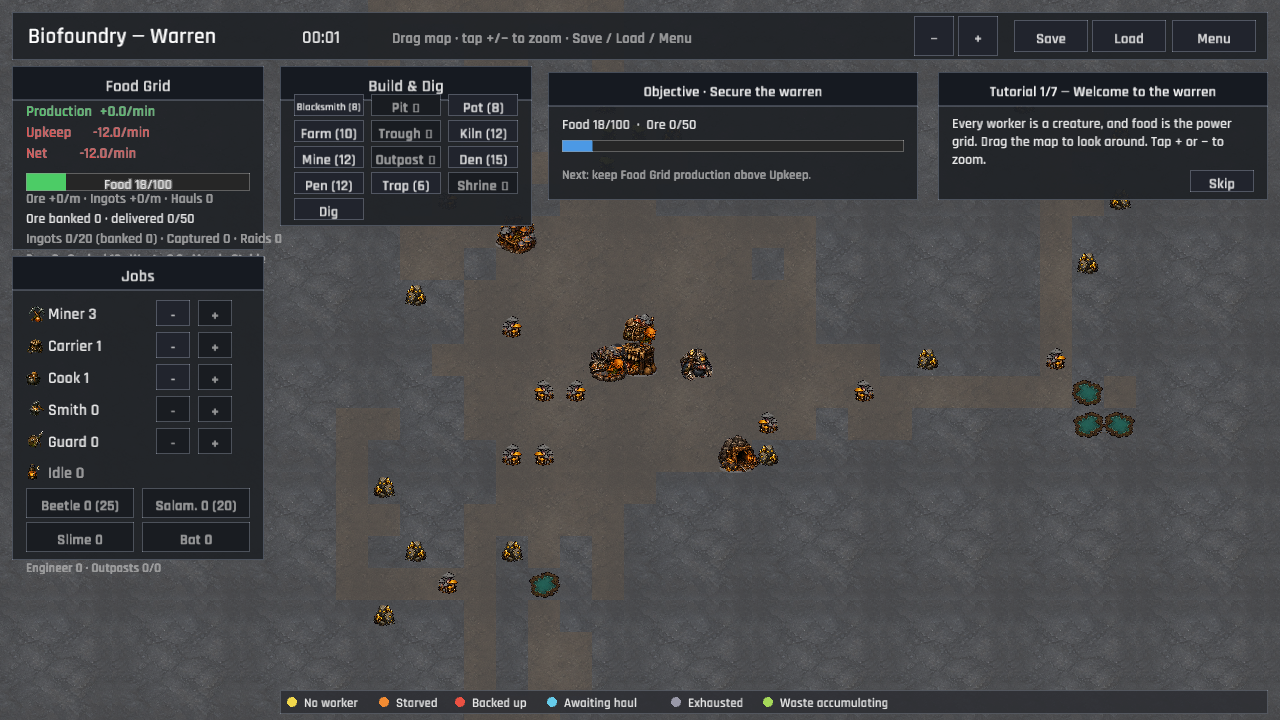
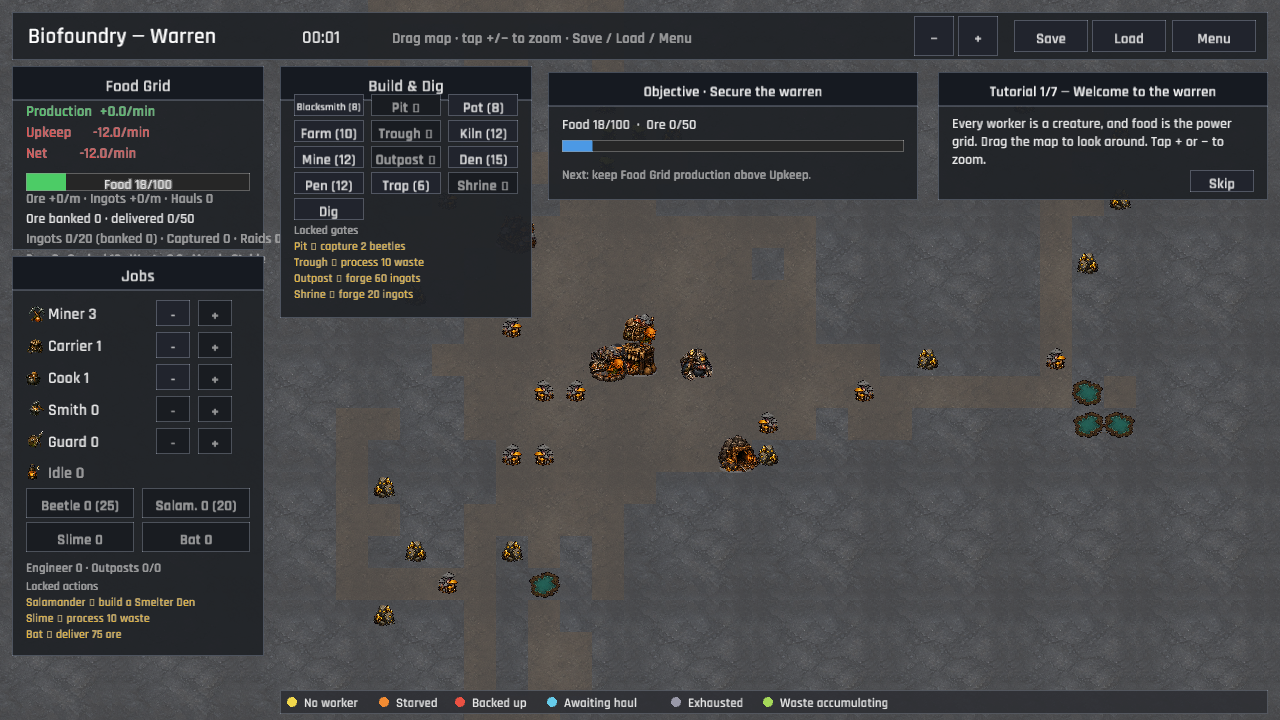
The warren names every locked gate before the path disappears (P2 unlock prerequisite disclosure)
The build and recruitment panels showed padlocks without telling a player what progress would open them, leaving optional systems to look broken or arbitrary. Locked gates now expose exact, data-derived actions: capture beetles, process waste, deliver ore, forge ingots, or build the Smelter Den.

The same prerequisite formatter serves building locks and specialist actions, so the copy follows the thresholds in unlocks.json instead of duplicating balance values. The panels gain enough room to keep those explanations visible at 1280x720, and the canonical Warren capture records the result.

Verified with cargo fmt -- --check, cargo test --all-targets (69 unit tests plus integration checks), cargo clippy --all-targets --all-features -- -D warnings, and publish.ps1 with no parameters.

Changed region(s): [[0.2188, 0.3056, 0.4375, 0.4583], [0.0, 0.7639, 0.2188, 0.9167]]

diff --git a/src/ui/hud/panels.rs b/src/ui/hud/panels.rs
@@ -5,6 +5,7 @@ use crate::data::GameData;
 use crate::simulation::{self, food};
 use crate::state::creatures::Job;
 use crate::state::GameSession;
+use crate::ui::hud::requirements::unlock_requirement;
 use crate::ui::hud::widgets::{hud_button, panel_style};
 use crate::ui::hud::HudSprites;
 use crate::ui::{UiAction, UiMode, LOGICAL_WIDTH};
@@ -380,6 +381,34 @@ pub(super) fn draw_jobs_panel(
         y + 18.0,
         TextStyle::new(13.0, dark::TEXT_DIM).params(),
     );
+
+    let mut locked_actions = Vec::new();
+    if !has_den {
+        locked_actions.push("Salamander → build a Smelter Den".to_owned());
+    }
+    for (label, unlock_id) in [("Slime", "slime_janitor"), ("Bat", "bat_courier")] {
+        if !session.unlocked.contains(unlock_id) {
+            if let Some(requirement) = unlock_requirement(data, unlock_id) {
+                locked_actions.push(format!("{label} → {requirement}"));
+            }
+        }
+    }
+    if !locked_actions.is_empty() {
+        draw_ui_text_ex(
+            "Locked actions",
+            x,
+            y + 36.0,
+            TextStyle::new(12.0, dark::TEXT_DIM).params(),
+        );
+        for (index, requirement) in locked_actions.iter().enumerate() {
+            draw_ui_text_ex(
+                requirement,
+                x,
+                y + 52.0 + index as f32 * 16.0,
+                TextStyle::new(12.0, dark::WARNING).params(),
+            );
+        }
+    }
 }
 
 pub(super) fn draw_tools_panel(
@@ -406,6 +435,7 @@ pub(super) fn draw_tools_panel(
     // kinds stay visible but disabled (progression is discoverable).
     let mut defs: Vec<_> = data.buildings.iter().filter(|(_, d)| d.buildable).collect();
     defs.sort_by(|a, b| a.0.cmp(b.0));
+    let mut locked_requirements = Vec::new();
     for row in defs.chunks(3) {
         for (i, (id, def)) in row.iter().enumerate() {
             let active = *mode == UiMode::Build((*id).clone());
@@ -420,6 +450,13 @@ pub(super) fn draw_tools_panel(
             } else {
                 format!("{short} 🔒")
             };
+            if !unlocked {
+                if let Some(unlock_id) = def.requires_unlock.as_deref() {
+                    if let Some(requirement) = unlock_requirement(data, unlock_id) {
+                        locked_requirements.push(format!("{short} → {requirement}"));
+                    }
+                }
+            }
             let bx = x + (cell + 8.0) * i as f32;
             if hud_button(Rect::new(bx, y, cell, 22.0), &label, unlocked, mouse) {
                 actions.push(UiAction::SetMode(UiMode::Build((*id).clone())));
@@ -442,6 +479,22 @@ pub(super) fn draw_tools_panel(
             y + 16.0,
             TextStyle::new(13.0, dark::TEXT_DIM).params(),
         );
+    }
+    if !locked_requirements.is_empty() {
+        draw_ui_text_ex(
+            "Locked gates",
+            x,
+            y + 36.0,
+            TextStyle::new(12.0, dark::TEXT_DIM).params(),
+        );
+        for (index, requirement) in locked_requirements.iter().enumerate() {
+            draw_ui_text_ex(
+                requirement,
+                x,
+                y + 52.0 + index as f32 * 16.0,
+                TextStyle::new(12.0, dark::WARNING).params(),
+            );
+        }
     }
 }
 

diff --git a/src/ui/hud/requirements.rs b/src/ui/hud/requirements.rs
@@ -1,0 +1,24 @@
+//! Player-facing prerequisite phrases for locked optional actions.
+
+use crate::data::GameData;
+
+/// Translate a data-driven unlock into a concise action the player can take.
+pub(super) fn unlock_requirement(data: &GameData, id: &str) -> Option<String> {
+    let unlock = data.unlocks.iter().find(|candidate| candidate.id == id)?;
+    let phrase = match unlock.counter.as_str() {
+        "beetles_captured" => format!("capture {} beetles", unlock.threshold),
+        "raids_survived" => format!("survive {} raid", unlock.threshold),
+        "famines_survived" => format!("survive {} famine", unlock.threshold),
+        "specimens" => format!("house {} specimens", unlock.threshold),
+        "knowledge" => format!("gain {} study", unlock.threshold),
+        "waste_processed" => format!("process {} waste", unlock.threshold),
+        "courier_deliveries" => format!("complete {} courier deliveries", unlock.threshold),
+        "ingots_forged" => format!("forge {} ingots", unlock.threshold),
+        "ore_delivered_total" => format!("deliver {} ore", unlock.threshold),
+        _ => return None,
+    };
+    Some(phrase)
+}
+
+#[cfg(test)]
+mod tests;

diff --git a/src/ui/hud.rs b/src/ui/hud.rs
@@ -10,6 +10,7 @@ mod inspect;
 mod objective;
 mod overlays;
 mod panels;
+mod requirements;
 mod widgets;
 
 use crate::data::GameData;
@@ -70,11 +71,11 @@ pub fn draw(
 
     let top_bar = Rect::new(12.0, 12.0, LOGICAL_WIDTH - 24.0, 48.0);
     let food_panel = Rect::new(12.0, 66.0, PANEL_W, 184.0);
-    let jobs_panel = Rect::new(12.0, 256.0, PANEL_W, 304.0);
+    let jobs_panel = Rect::new(12.0, 256.0, PANEL_W, 400.0);
     // Keep Build & Dig beside the other opening controls. The WebGL page can
     // show a 1200x675 canvas below a header; putting this panel at the bottom
     // makes its buttons disappear below the browser fold at 1280x720.
-    let tools_panel = Rect::new(PANEL_W + 28.0, 66.0, PANEL_W, 160.0);
+    let tools_panel = Rect::new(PANEL_W + 28.0, 66.0, PANEL_W, 252.0);
 
     panels::draw_top_bar(session, top_bar, mouse, &mut actions);
     panels::draw_food_grid_panel(session, data, food_panel);

diff --git a/src/ui/hud/requirements/tests.rs b/src/ui/hud/requirements/tests.rs
@@ -1,0 +1,20 @@
+use super::*;
+use crate::data::GameData;
+
+#[test]
+fn unlocks_explain_the_action_and_threshold() {
+    let data = GameData::load().unwrap();
+
+    assert_eq!(
+        unlock_requirement(&data, "worm_shrine").as_deref(),
+        Some("forge 20 ingots")
+    );
+    assert_eq!(
+        unlock_requirement(&data, "breeding_pit").as_deref(),
+        Some("capture 2 beetles")
+    );
+    assert_eq!(
+        unlock_requirement(&data, "slime_janitor").as_deref(),
+        Some("process 10 waste")
+    );
+}

diff --git a/docs/phase-one/PRODUCTION_PLAN.md b/docs/phase-one/PRODUCTION_PLAN.md
@@ -49,7 +49,7 @@ systems when they become relevant.
 - [x] Add a persistent campaign objective card with current progress and the
   next unmet requirement.
 - [ ] Rework the tutorial around the five journey beats in `PLAYABLE_SLICE.md`.
-- [ ] Make every locked building or action state its exact prerequisite.
+- [x] Make every locked building or action state its exact prerequisite.
 - [ ] Delay or collapse optional systems until the critical path establishes
   food, mining, smithing, and the worm goal.
 - [ ] Ensure every tutorial instruction names the exact visible control or
